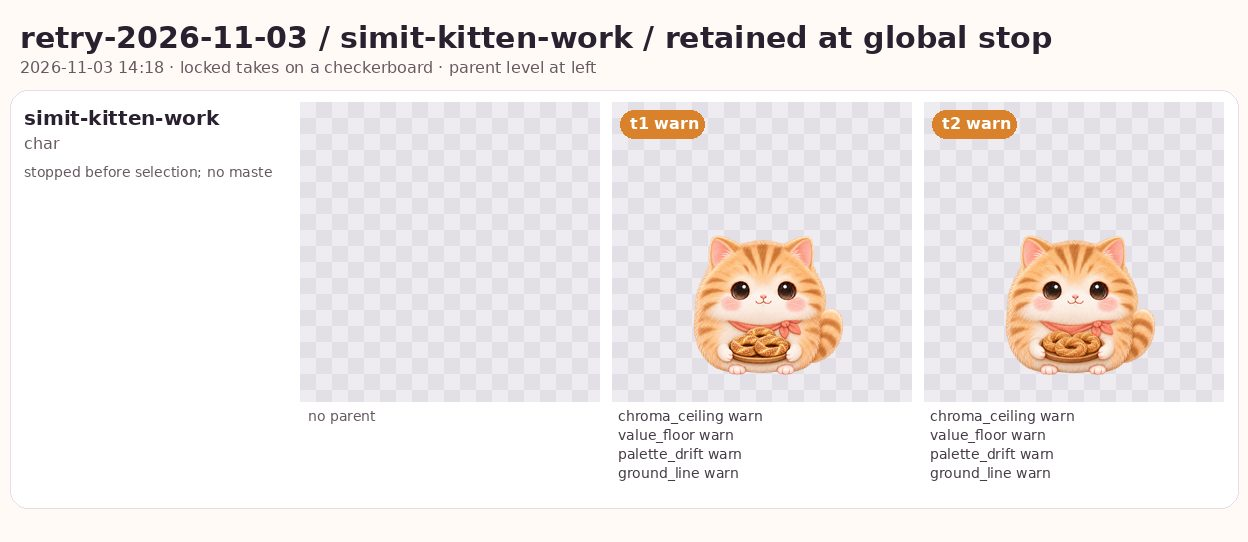
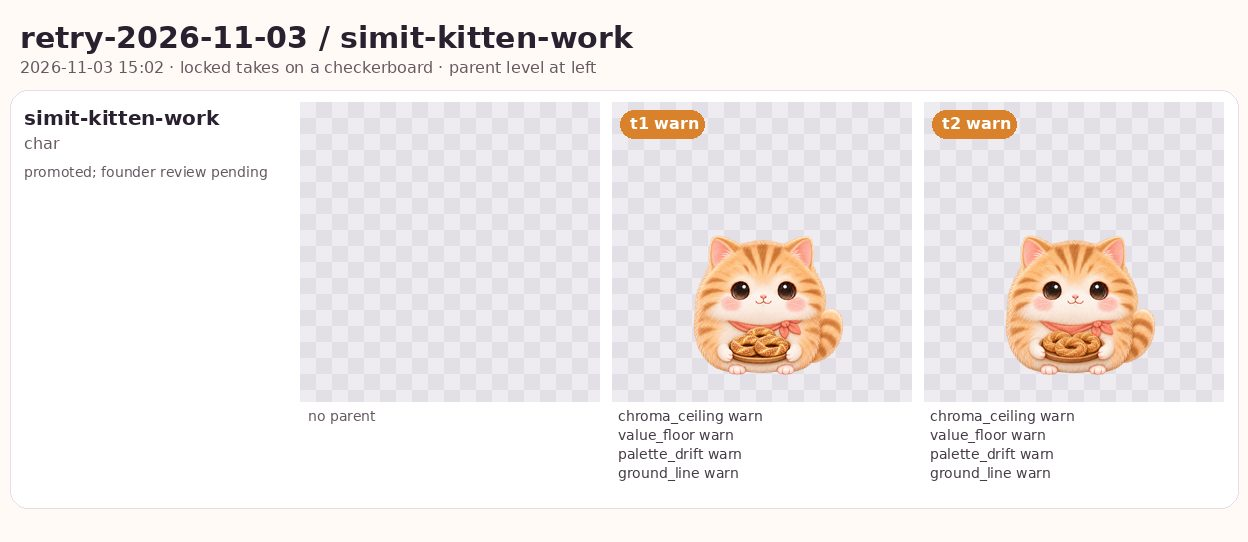
design(art): publish simit-kitten-work
Generated-With: OpenAI Codex

Changed region(s): [[0.5, 0.059, 0.8438, 0.1181], [0.0, 0.2952, 0.2188, 0.3247], [0.0938, 0.1181, 0.125, 0.1476]]

diff --git a/design/art/masters/simit-kitten-work/provenance.md b/design/art/masters/simit-kitten-work/provenance.md
@@ -1,0 +1,53 @@
+# char__simit-kitten-work
+
+- **Approved:** 2026-11-03T15:02:19+00:00 from batch `retry-2026-11-03`, job `simit-kitten-work`, take t2
+  of 2 considered.
+- **Generating account:** Founder's uncle's ChatGPT plan, used by the founder with permission
+  (chatgpt-plan).
+- **Tool:** codex-cloud;
+  generated 2026-11-03T13:53:29+00:00.
+- **Post-processing (human-authored, documented per art bible section 13):**
+  canvas fit, style lock preset `char-guard` (style_lock.json v2).
+- **Files:** `raw.webp` is the take as generated (webp lossless), kept so the look can be re-locked; `simit-kitten-work.png` is the locked master the app and later edits use.
+- **Review note:** auto-picked by QA; founder review pending. Retained pair re-posted under main9ede62e; no new image generation. Both preserve the approved kitten identity and framing and change the front paws to hold one round wooden tray with exactly three simit rings. No head curl, steam or text. Current reports have warnings only: chroma, value, palette drift and inherited ground line; t2 additionally warns on edit_chroma x1.183. Stability passes at0.8622/0.8681; no obsolete manual >0.9 gate. The previously unsealed proposal is now selected as t2 by Harmony79.8 versus79.0, with no character lock-load check and no failure waived.
+
+## References
+
+- `design/art/masters/simit-kitten/simit-kitten.png`: The image to edit (the approved previous level). Edit it; do not redraw it.
+
+## Prompt (fingerprint 6c681022e2f2b0f5)
+
+```text
+REFERENCES (attached, in this order):
+1. The image to edit (the approved previous level). Edit it; do not redraw it.
+
+Edit the attached kitten, Simit, into her working pose. Change only
+her two front paws: they now hold a small round wooden tray in
+front of her chest with three plump sesame-crusted simit rings
+(golden-brown rings dotted with cream seeds) on it. Her ears, head,
+face, body, tail and feet stay exactly as they are.
+
+KEEP: everything not named above stays exactly the same as in the
+attached image: every existing part, its shape, color, position and size,
+the canvas, the camera, the light and the painting style. Do not zoom out
+or reframe: if a new part does not fit, make the new part smaller, never
+the existing ones. Outside the new parts, the result must line up with
+the attached image pixel for pixel.
+
+AVOID: a ground shadow, steam, text, a curl on the head.
+
+Output: one image, transparent background PNG, portrait 1024 x 1536.
+```
+
+## QA at approval
+
+- pass: transparency (source has an alpha channel)
+- pass: canvas (1024x1536)
+- warn: chroma_ceiling (chroma p95 57 (R1 51))
+- warn: value_floor (lightness p5 44 (R1 59))
+- pass: detail_budget (detail at display size 6.4 (R1 5.3))
+- warn: palette_drift (mean dE 2.2, p95 9.6, off-palette 3.9% (top: #995522 (0.4%), #884411 (0.2%)))
+- warn: ground_line (feet at 92.6% of the height (contract 88%))
+- pass: harmony (harmony score 80 against the char reference (outliers: C_p95, detail))
+- pass: edit_stability (87% of the parent level unchanged)
+- warn: edit_chroma (chroma x1.18 of the parent level (drift compounds along a chain))
